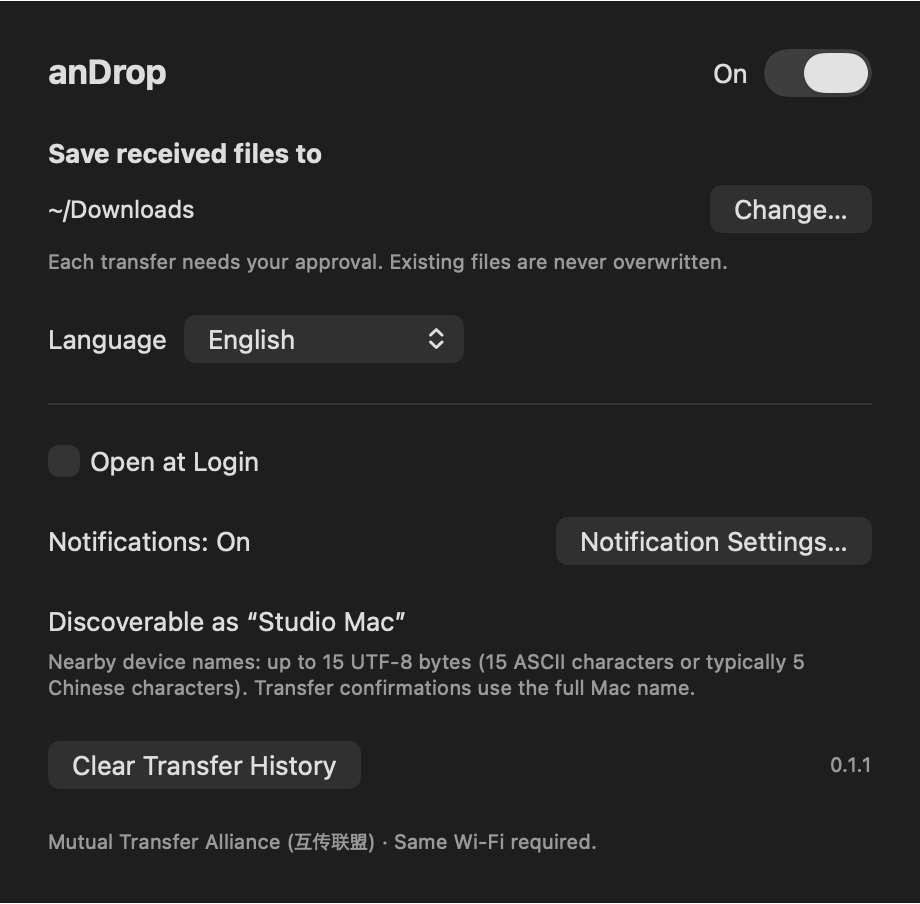
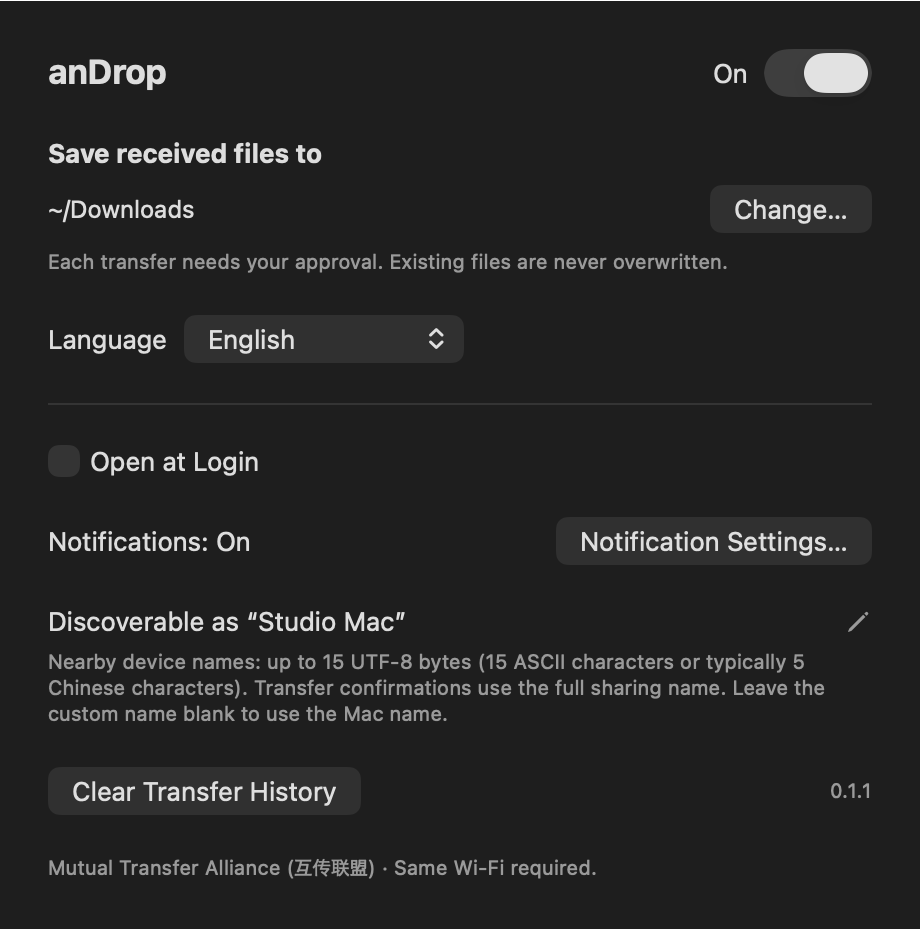
Allow editing the nearby sharing name in Settings

diff --git a/Sources/main.swift b/Sources/main.swift
@@ -56,6 +56,7 @@ final class RecipientPanel: NSPanel {
 
 @MainActor
 final class AppModel: NSObject, ObservableObject, NSApplicationDelegate, @preconcurrency CBPeripheralManagerDelegate, @preconcurrency UNUserNotificationCenterDelegate, NSMenuDelegate, NSWindowDelegate {
+    @Published private(set) var customSharingName = UserDefaults.standard.string(forKey: "customSharingName") ?? ""
     @Published var language = UserDefaults.standard.string(forKey: "language") ?? "system"
     @Published var peers: [Peer] = []
     @Published private(set) var peerAliases = UserDefaults.standard.dictionary(forKey: "peerAliases") as? [String: String] ?? [:]
@@ -102,11 +103,12 @@ final class AppModel: NSObject, ObservableObject, NSApplicationDelegate, @precon
     private var advertisedName = ""
     private var configuredName = ""
     var deviceName: String { Host.current().localizedName ?? ProcessInfo.processInfo.hostName }
+    var sharingName: String { customSharingName.isEmpty ? deviceName : customSharingName }
     var displayName: String {
         if compactName { return "A" }
         // Keep the protocol prefix and name inside a legacy BLE advertisement.
         var name = ""
-        for character in deviceName {
+        for character in sharingName {
             let next = name + String(character)
             if next.utf8.count > 15 { break }
             name = next
@@ -393,7 +395,7 @@ final class AppModel: NSObject, ObservableObject, NSApplicationDelegate, @precon
         do { try input.write(contentsOf: bytes + Data([10])); return true }
         catch { self.error = L("Could not connect to the sharing service.", "无法连接到共享服务。"); return false }
     }
-    func configureEngine() { configuredName = deviceName; command(["command": "configure", "destination": destination, "name": configuredName, "language": appLanguage()]); command(["command": "enabled", "value": receiving]) }
+    func configureEngine() { configuredName = sharingName; command(["command": "configure", "destination": destination, "name": configuredName, "language": appLanguage()]); command(["command": "enabled", "value": receiving]) }
     private func consume(_ data: Data) {
         outputBuffer.append(data)
         if outputBuffer.count > 4_194_304 { outputBuffer.removeAll(); error = L("The sharing service returned an invalid response.", "共享服务返回了无效响应。"); return }
@@ -514,6 +516,15 @@ final class AppModel: NSObject, ObservableObject, NSApplicationDelegate, @precon
     func cancel(_ transfer: Transfer) { command(["command": "cancel", "id": transfer.id]) }
     func reveal(_ transfer: Transfer) { NSWorkspace.shared.activateFileViewerSelecting(transfer.paths.map { URL(fileURLWithPath: $0) }) }
     func changeReceiving(_ value: Bool) { receiving = value; if !value { clearPeers() }; UserDefaults.standard.set(value, forKey: "enabled"); command(["command":"enabled", "value": value]); advertise(); rebuildMenu() }
+    @discardableResult
+    func changeSharingName(_ value: String) -> Bool {
+        let name = value.trimmingCharacters(in: .whitespacesAndNewlines)
+        guard !busy, name.utf8.count <= 15, !name.unicodeScalars.contains(where: { CharacterSet.controlCharacters.contains($0) }) else { return false }
+        customSharingName = name
+        UserDefaults.standard.set(name, forKey: "customSharingName")
+        configureEngine(); advertise(); rebuildMenu()
+        return true
+    }
     func changeLanguage(_ value: String) {
         language = value; UserDefaults.standard.set(value, forKey: "language"); configureEngine(); setupNotifications(); rebuildMenu()
         if let appMenu = NSApp.mainMenu?.items.first?.submenu {
@@ -530,7 +541,7 @@ final class AppModel: NSObject, ObservableObject, NSApplicationDelegate, @precon
     }
     private func refreshEnvironment() {
         expirePeerUpdates()
-        if configuredName != deviceName && !busy { configureEngine(); advertise() }
+        if configuredName != sharingName && !busy { configureEngine(); advertise() }
         let petal = NSWorkspace.shared.runningApplications.contains { $0.bundleIdentifier == "com.EMUIInterconnect.app" }
         if petal != petalRunning {
             petalRunning = petal
@@ -885,6 +896,7 @@ private struct RecipientAvatar: View {
 
 struct SettingsView: View {
     @ObservedObject var model: AppModel
+    @State private var editingSharingName = false
     var body: some View {
         VStack(alignment: .leading, spacing: 20) {
             HStack { Text("anDrop").font(.title2.bold()); Spacer(); Toggle(L("On", "开启"), isOn: Binding(get: { model.receiving }, set: model.changeReceiving)).toggleStyle(.switch).fixedSize() }
@@ -904,8 +916,16 @@ struct SettingsView: View {
             Toggle(L("Open at Login", "登录时启动"), isOn: Binding(get: { model.startAtLogin }, set: model.changeLogin))
             HStack { Text(model.notificationsAllowed ? L("Notifications: On", "通知：已开启") : L("Notifications: Off", "通知：已关闭")); Spacer(); Button(L("Notification Settings…", "通知设置…")) { if let url = URL(string: "x-apple.systempreferences:com.apple.Notifications-Settings.extension") { NSWorkspace.shared.open(url) } } }
             VStack(alignment: .leading, spacing: 6) {
-                Text(model.petalRunning ? L("With Petal · Nearby name “A”", "与 Petal 共存 · 附近设备名称“A”") : L("Discoverable as “\(model.displayName)”", "在设备上显示为“\(model.displayName)”"))
-                Text(L("Nearby device names: up to 15 UTF-8 bytes (15 ASCII characters or typically 5 Chinese characters). Transfer confirmations use the full Mac name.", "附近设备名称上限：15 个 UTF-8 字节（15 个半角英数字符，或通常 5 个汉字）。传输确认使用完整电脑名称。"))
+                HStack {
+                    Text(model.petalRunning ? L("With Petal · Nearby name “A”", "与 Petal 共存 · 附近设备名称“A”") : L("Discoverable as “\(model.displayName)”", "在设备上显示为“\(model.displayName)”"))
+                    Spacer()
+                    Button { editingSharingName = true } label: { Image(systemName: "pencil") }
+                        .buttonStyle(.borderless)
+                        .help(L("Change sharing name", "更改共享名称"))
+                        .accessibilityLabel(L("Change sharing name", "更改共享名称"))
+                        .disabled(model.busy)
+                }
+                Text(L("Nearby device names: up to 15 UTF-8 bytes (15 ASCII characters or typically 5 Chinese characters). Transfer confirmations use the full sharing name. Leave the custom name blank to use the Mac name.", "附近设备名称上限：15 个 UTF-8 字节（15 个半角英数字符，或通常 5 个汉字）。传输确认使用完整共享名称。自定义名称留空时使用系统电脑名称。"))
                     .font(.caption).foregroundStyle(.secondary).fixedSize(horizontal: false, vertical: true)
                 if model.petalRunning {
                     Text(L("Experimental: discovery may fail with Petal. Repair restarts Petal, but may not resolve every conflict. If it persists, quit Petal while receiving.", "实验性支持：与 Petal 同时运行时可能无法被发现。修复会重启 Petal，但不保证解决每次冲突。若仍无法发现，可在接收时退出 Petal。"))
@@ -916,6 +936,46 @@ struct SettingsView: View {
             HStack { Button(L("Clear Transfer History", "清除传输记录"), action: model.clearHistory); Spacer(); Text("0.1.1").font(.caption).foregroundStyle(.secondary) }
             Text(L("Mutual Transfer Alliance (互传联盟) · Same Wi-Fi required.", "互传联盟 · 需连接同一 Wi-Fi。")).font(.caption).foregroundStyle(.secondary)
         }.padding(24).frame(width: 460)
+            .sheet(isPresented: $editingSharingName) {
+                SharingNameView(model: model)
+            }
+    }
+}
+
+struct SharingNameView: View {
+    @ObservedObject var model: AppModel
+    @Environment(\.dismiss) private var dismiss
+    @State private var name: String
+    @FocusState private var nameFocused: Bool
+
+    init(model: AppModel) {
+        self.model = model
+        _name = State(initialValue: model.customSharingName)
+    }
+    private var normalizedName: String { name.trimmingCharacters(in: .whitespacesAndNewlines) }
+    private var valid: Bool {
+        normalizedName.utf8.count <= 15 && !normalizedName.unicodeScalars.contains { CharacterSet.controlCharacters.contains($0) }
+    }
+    private func save() { if model.changeSharingName(name) { dismiss() } }
+    var body: some View {
+        VStack(alignment: .leading, spacing: 14) {
+            Text(L("Sharing Name", "共享名称")).font(.headline)
+            Text(L("Visible to nearby devices. Leave blank to follow this Mac’s system name. This does not rename your Mac.", "附近设备可见。留空时跟随本机的系统名称，不会修改 Mac 的系统名称。"))
+                .font(.callout).foregroundStyle(.secondary).fixedSize(horizontal: false, vertical: true)
+            TextField(model.deviceName, text: $name).textFieldStyle(.roundedBorder).focused($nameFocused).onSubmit(save)
+            Text(L("\(normalizedName.utf8.count)/15 UTF-8 bytes · 15 ASCII characters or typically 5 Chinese characters.", "\(normalizedName.utf8.count)/15 个 UTF-8 字节 · 15 个半角英数字符或通常 5 个汉字。"))
+                .font(.caption).foregroundStyle(valid ? Color.secondary : Color.red).fixedSize(horizontal: false, vertical: true)
+            if model.petalRunning {
+                Text(L("While Petal runs, the nearby name remains “A”. Your sharing name is used in transfer confirmations and restored nearby when Petal quits.", "Petal 运行时，附近名称仍为“A”。传输确认使用此共享名称，退出 Petal 后附近名称也会恢复。"))
+                    .font(.caption).foregroundStyle(.secondary).fixedSize(horizontal: false, vertical: true)
+            }
+            HStack {
+                Button(L("Use Mac Name", "使用 Mac 名称")) { name = "" }
+                Spacer()
+                Button(L("Cancel", "取消")) { dismiss() }.keyboardShortcut(.cancelAction)
+                Button(L("Save", "保存"), action: save).keyboardShortcut(.defaultAction).disabled(!valid || model.busy)
+            }
+        }.padding(20).frame(width: 360).onAppear { nameFocused = true }
     }
 }
 

diff --git a/scripts/DocumentationPreview.swift b/scripts/DocumentationPreview.swift
@@ -41,7 +41,7 @@ if let icon = Bundle.main.url(forResource: "AppIcon", withExtension: "icns").fla
 let imageDirectory = URL(fileURLWithPath: CommandLine.arguments[1], isDirectory: true)
 for language in ["zh", "en"] {
     UserDefaults.standard.setVolatileDomain([
-        "language": language, "peerAliases": [String: String](),
+        "language": language, "customSharingName": "", "peerAliases": [String: String](),
         "destination": "~/Downloads", "enabled": true,
     ], forName: UserDefaults.argumentDomain)
     let model = AppModel()

diff --git a/build.py b/build.py
@@ -10,10 +10,10 @@ IDENTITY=os.environ.get('ANDROP_SIGN_IDENTITY','-')
 BUNDLE_ID=os.environ.get('ANDROP_BUNDLE_ID','org.androp.mac')
 def run(*cmd):subprocess.run([str(x) for x in cmd],check=True)
 for path in ['Contents/MacOS','Contents/Resources','Contents/PlugIns/anDropShare.appex/Contents/MacOS']:(APP/path).mkdir(parents=True,exist_ok=True)
-info={'CFBundleExecutable':'anDrop','CFBundleIdentifier':BUNDLE_ID,'CFBundleName':'anDrop','CFBundleDisplayName':'anDrop','CFBundlePackageType':'APPL','CFBundleShortVersionString':'0.1.1','CFBundleVersion':'10','CFBundleDevelopmentRegion':'en','CFBundleLocalizations':['en','zh-Hans'],'LSMinimumSystemVersion':'14.0','NSBluetoothAlwaysUsageDescription':'Discover nearby devices for file sharing through the Mutual Transfer Alliance (互传联盟) ecosystem.','NSLocalNetworkUsageDescription':'Send and receive files with Android devices on the same Wi-Fi.','NSHighResolutionCapable':True,'LSUIElement':False,'CFBundleURLTypes':[{'CFBundleURLName':BUNDLE_ID+'.share','CFBundleURLSchemes':['androp']}],'CFBundleDocumentTypes':[{'CFBundleTypeName':'Files','CFBundleTypeRole':'Viewer','LSHandlerRank':'Alternate','LSItemContentTypes':['public.data']}],'CFBundleIconFile':'AppIcon'}
+info={'CFBundleExecutable':'anDrop','CFBundleIdentifier':BUNDLE_ID,'CFBundleName':'anDrop','CFBundleDisplayName':'anDrop','CFBundlePackageType':'APPL','CFBundleShortVersionString':'0.1.1','CFBundleVersion':'11','CFBundleDevelopmentRegion':'en','CFBundleLocalizations':['en','zh-Hans'],'LSMinimumSystemVersion':'14.0','NSBluetoothAlwaysUsageDescription':'Discover nearby devices for file sharing through the Mutual Transfer Alliance (互传联盟) ecosystem.','NSLocalNetworkUsageDescription':'Send and receive files with Android devices on the same Wi-Fi.','NSHighResolutionCapable':True,'LSUIElement':False,'CFBundleURLTypes':[{'CFBundleURLName':BUNDLE_ID+'.share','CFBundleURLSchemes':['androp']}],'CFBundleDocumentTypes':[{'CFBundleTypeName':'Files','CFBundleTypeRole':'Viewer','LSHandlerRank':'Alternate','LSItemContentTypes':['public.data']}],'CFBundleIconFile':'AppIcon'}
 (APP/'Contents/Info.plist').write_bytes(plistlib.dumps(info))
 ext=APP/'Contents/PlugIns/anDropShare.appex'
-extinfo={'CFBundleExecutable':'anDropShare','CFBundleIdentifier':BUNDLE_ID+'.Share','CFBundleName':'anDrop','CFBundleDisplayName':'anDrop','CFBundlePackageType':'XPC!','CFBundleShortVersionString':'0.1.1','CFBundleVersion':'10','CFBundleDevelopmentRegion':'en','CFBundleLocalizations':['en','zh-Hans'],'LSMinimumSystemVersion':'14.0','NSExtension':{'NSExtensionPointIdentifier':'com.apple.share-services','NSExtensionPrincipalClass':'ShareViewController','NSExtensionAttributes':{'NSExtensionActivationRule':{'NSExtensionActivationDictionaryVersion':2,'NSExtensionActivationSupportsFileWithMaxCount':1000,'NSExtensionActivationSupportsImageWithMaxCount':1000,'NSExtensionActivationSupportsMovieWithMaxCount':1000}}}}
+extinfo={'CFBundleExecutable':'anDropShare','CFBundleIdentifier':BUNDLE_ID+'.Share','CFBundleName':'anDrop','CFBundleDisplayName':'anDrop','CFBundlePackageType':'XPC!','CFBundleShortVersionString':'0.1.1','CFBundleVersion':'11','CFBundleDevelopmentRegion':'en','CFBundleLocalizations':['en','zh-Hans'],'LSMinimumSystemVersion':'14.0','NSExtension':{'NSExtensionPointIdentifier':'com.apple.share-services','NSExtensionPrincipalClass':'ShareViewController','NSExtensionAttributes':{'NSExtensionActivationRule':{'NSExtensionActivationDictionaryVersion':2,'NSExtensionActivationSupportsFileWithMaxCount':1000,'NSExtensionActivationSupportsImageWithMaxCount':1000,'NSExtensionActivationSupportsMovieWithMaxCount':1000}}}}
 (ext/'Contents/Info.plist').write_bytes(plistlib.dumps(extinfo))
 cache=ROOT/'build/module-cache'
 run('swiftc','-swift-version','6','-default-isolation','MainActor','-module-cache-path',cache,ROOT/'Sources/Localization.swift',ROOT/'Sources/Peer.swift',ROOT/'Sources/TransferProgress.swift',ROOT/'Sources/BrandLogos.swift',ROOT/'Sources/main.swift','-o',APP/'Contents/MacOS/anDrop')

diff --git a/README.en.md b/README.en.md
@@ -70,7 +70,7 @@ One transfer runs at a time. Compress folders first. Send files with identical b
 | No notification appears | Check macOS notification and Focus settings. Approval and progress are also available in the menu bar. |
 | The phone cannot find the Mac while Petal is running | Coexistence is experimental. Finish Petal transfers before trying anDrop’s manual repair in Settings, which restarts Petal. If needed, quit Petal while receiving. |
 
-Names and privacy: local device names allow **40 characters** and do not rename the phone or account. The Mac uses its system Computer Name by default. Nearby advertisements allow **15 UTF-8 bytes**—15 ASCII characters or typically 5 Chinese characters—while transfer confirmations use the full name. Nearby devices can see the advertised name. Transfer history stays on this Mac and can be cleared in Settings. While Petal runs, anDrop temporarily uses `A` nearby and keeps a Dock icon to improve coexistence.
+Names and privacy: local device names allow **40 characters** and do not rename the phone or account. The Mac uses its system Computer Name by default. Click the pencil beside the nearby name in Settings to set a custom sharing name (up to 15 UTF-8 bytes); leave it blank to restore the default. This does not rename your Mac. Nearby advertisements allow **15 UTF-8 bytes**—15 ASCII characters or typically 5 Chinese characters—while transfer confirmations use the full name. Nearby devices can see the advertised name. Transfer history stays on this Mac and can be cleared in Settings. While Petal runs, anDrop temporarily uses `A` nearby and keeps a Dock icon to improve coexistence.
 
 ## Which devices work?
 

diff --git a/README.md b/README.md
@@ -70,7 +70,7 @@ anDrop 是一个常驻 macOS 菜单栏的文件共享应用，面向 **互传联
 | 没弹出通知 | 检查 macOS 通知和专注模式；接收确认及进度仍可从菜单栏查看。 |
 | 同时使用 Petal，手机找不到 Mac | 共存仍属实验性支持。先结束 Petal 传输，再到 anDrop 设置手动修复；修复会重启 Petal，必要时退出 Petal 后再接收。 |
 
-名称与隐私：本地别名最多 **40 个字符**，不会修改手机或账号名称。Mac 名称默认来自系统电脑名称；附近广播最多 **15 个 UTF-8 字节**（通常 5 个汉字或 15 个 ASCII 字符），传输确认使用完整名称。附近设备可以看到广播名称。传输记录保存在本机，可在设置中清除。Petal 运行时，附近名称暂用 `A`，并保留 Dock 图标以改善共存。
+名称与隐私：本地别名最多 **40 个字符**，不会修改手机或账号名称。Mac 名称默认来自系统电脑名称，可在设置中点击名称旁的铅笔修改共享名称（最多 15 个 UTF-8 字节，留空恢复默认，不会修改系统名称）；附近广播最多 **15 个 UTF-8 字节**（通常 5 个汉字或 15 个 ASCII 字符），传输确认使用完整名称。附近设备可以看到广播名称。传输记录保存在本机，可在设置中清除。Petal 运行时，附近名称暂用 `A`，并保留 Dock 图标以改善共存。
 
 ## 哪些设备可以用？
 

diff --git a/docs/usage.md b/docs/usage.md
@@ -22,7 +22,7 @@ For the examined version-11 advertisement, the app uses its advertised device ID
 
 ## Device name limit
 
-The default name follows macOS Computer Name. Nearby names have a **15 UTF-8 byte** limit: up to 15 ASCII characters, typically 5 Chinese characters, or fewer emoji. Shortening preserves complete characters. Transfer confirmations use the full Computer Name. The settings UI also explains this limit.
+The default name follows macOS Computer Name. Nearby names have a **15 UTF-8 byte** limit: up to 15 ASCII characters, typically 5 Chinese characters, or fewer emoji. Shortening preserves complete characters. Click the pencil beside the nearby name in Settings to set a custom sharing name of up to 15 UTF-8 bytes. Leave it blank to restore the system name; this does not rename your Mac. Transfer confirmations use the full sharing name. The settings UI also explains this limit.
 
 ## Device not found
 
